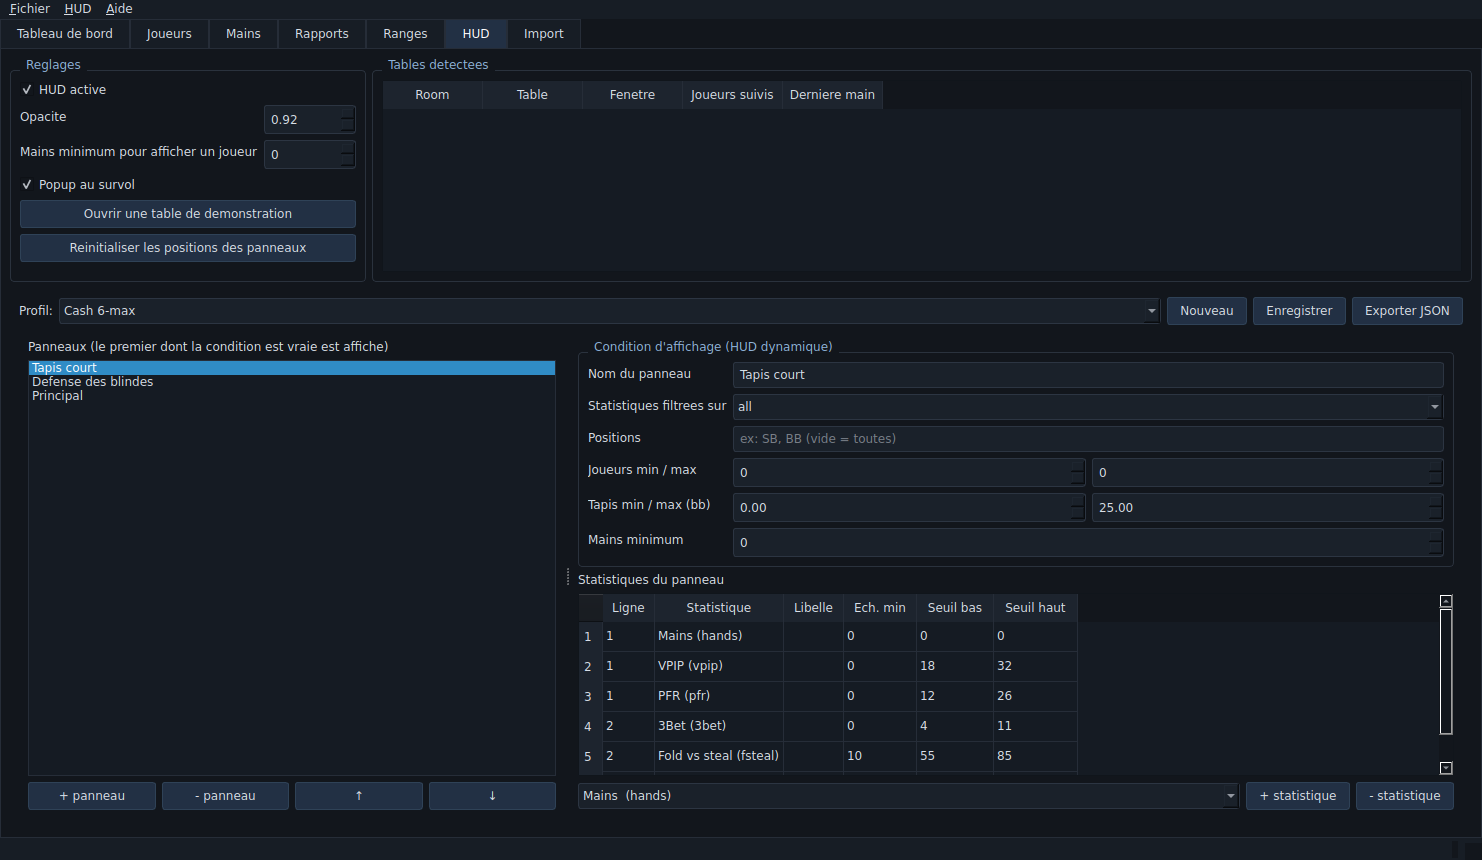
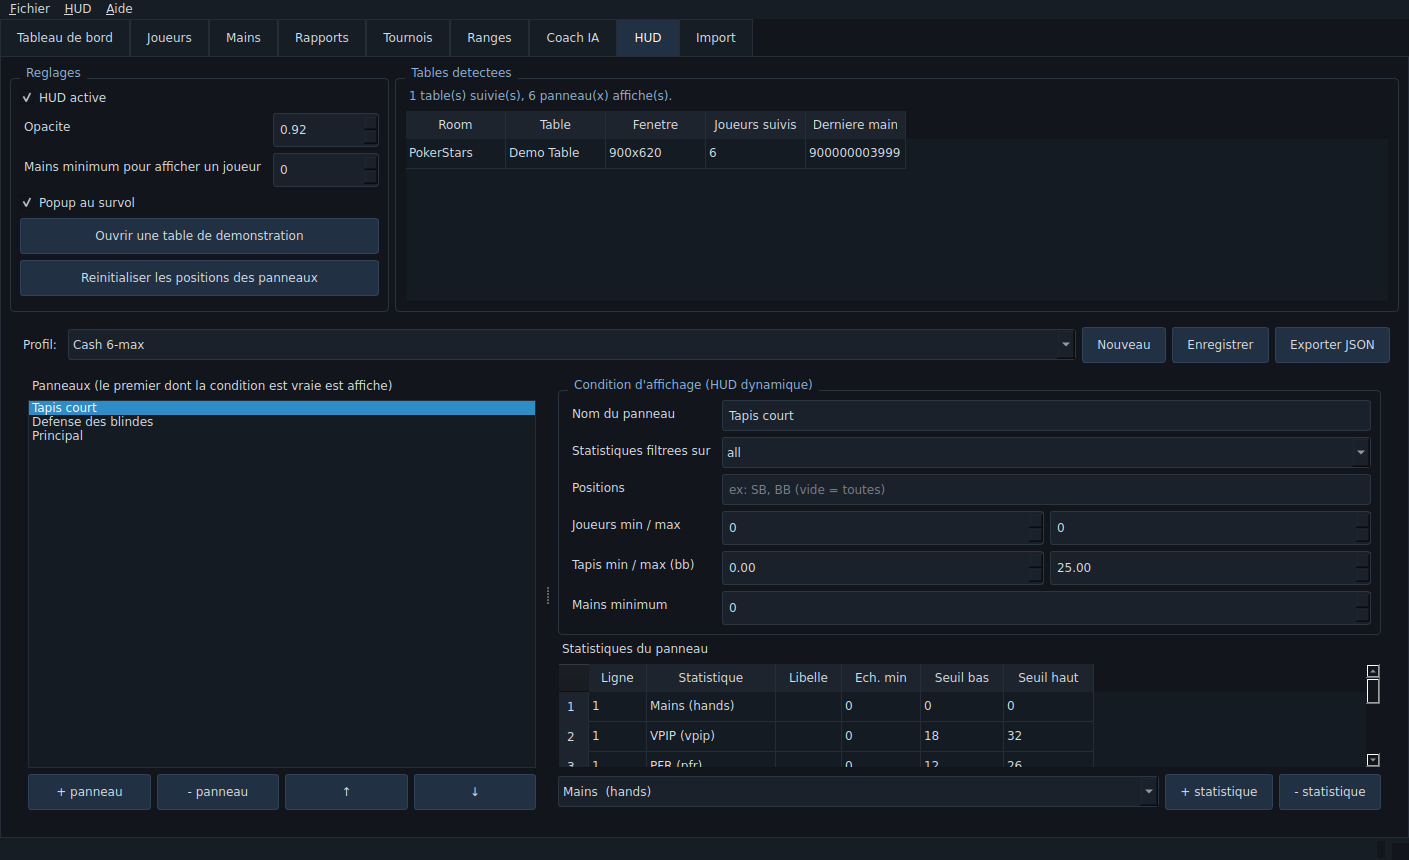
Guide du HUD, documentation et captures a jour
- docs/guide_hud.md: mise en route pas a pas, tableau de diagnostic et
  reglages, en reponse aux panneaux qui ne s'affichaient pas
- README: archivage, gains ajustes a l'equite, tournois, bankroll, coach IA,
  limites mises a jour et nouvelles captures
- statistique « Chance (bb) » calculee comme un ecart (expressions
  algebriques dans le catalogue de statistiques)
- axe des courbes libelle selon la serie (mains, tournois, mouvements)

Claude-Session: https://claude.ai/code/session_01Qmrfar1MuGqQSokXkrKt6E

diff --git a/pokertracker/core/stats/definitions.py b/pokertracker/core/stats/definitions.py
@@ -6,6 +6,7 @@ separes par '+' pour construire des statistiques composites.
 """
 from __future__ import annotations
 
+import re
 from dataclasses import dataclass, field
 from typing import Callable, Iterable, Optional
 
@@ -62,12 +63,20 @@ class StatDef:
 
 
 def sum_expr(agg: dict, expr: str) -> float:
+    """Somme algebrique de compteurs: 'a+b', 'bb_net-ev_bb'..."""
     total = 0.0
-    for part in expr.split("+"):
-        part = part.strip()
-        if not part:
+    sign = 1.0
+    for token in re.split(r"([+-])", expr):
+        token = token.strip()
+        if not token:
             continue
-        total += float(agg.get(part, 0) or 0)
+        if token == "+":
+            sign = 1.0
+        elif token == "-":
+            sign = -1.0
+        else:
+            total += sign * float(agg.get(token, 0) or 0)
+            sign = 1.0
     return total
 
 
@@ -100,9 +109,9 @@ STATS: list[StatDef] = [
                         "leur esperance mathematique."),
     StatDef("ev_net", "Gains ajustes", "ev_net", "hands", "General", "money",
             description="Gain net ajuste a l'equite des all-in."),
-    StatDef("luck_bb", "Ecart chance (bb)", "bb_net", "hands", "General", "money", 1,
-            description="Reste informatif: comparer 'Gains' et 'Gains ajustes' donne la "
-                        "chance sur la periode."),
+    StatDef("luck_bb", "Chance (bb)", "bb_net-ev_bb", "hands", "General", "money", 1,
+            description="Ecart entre gains reels et gains ajustes a l'equite, en grosses "
+                        "blindes: positif, les all-in ont ete favorables; negatif, defavorables."),
     StatDef("allin_ev_hands", "Mains all-in evaluees", "allin_ev_hands", "hands", "General",
             "int", description="Nombre de mains dont le resultat a ete ajuste a l'equite."),
     # ------------------------------------------------------------- preflop

diff --git a/pokertracker/ui/widgets.py b/pokertracker/ui/widgets.py
@@ -32,6 +32,8 @@ class WinningsGraph(QWidget):
         self.currency = "EUR"
         self.show_bb = True
         self.show_ev = True
+        #: nom de l'unite de l'axe horizontal (mains, tournois, mouvements...)
+        self.x_label = "mains"
         self.setMinimumHeight(220)
         self.setSizePolicy(QSizePolicy.Expanding, QSizePolicy.Expanding)
 
@@ -109,9 +111,9 @@ class WinningsGraph(QWidget):
             painter.drawText(QRectF(0, y - 8, 50, 16), Qt.AlignRight | Qt.AlignVCenter,
                              f"{v:,.0f}")
         painter.drawText(QRectF(rect.left(), rect.bottom() + 4, rect.width(), 18),
-                         Qt.AlignLeft, "1 main")
+                         Qt.AlignLeft, f"1 {self.x_label[:-1] if self.x_label.endswith('s') else self.x_label}")
         painter.drawText(QRectF(rect.left(), rect.bottom() + 4, rect.width(), 18),
-                         Qt.AlignRight, f"{n} mains")
+                         Qt.AlignRight, f"{n} {self.x_label}")
 
         # legende
         painter.setPen(QPen(color, 2))

diff --git a/pokertracker/ui/tournaments_tab.py b/pokertracker/ui/tournaments_tab.py
@@ -157,8 +157,10 @@ class TournamentsTab(QWidget):
 
         hero_id = self.hero_box.currentData()
         if self.curve_box.currentIndex() == 0:
+            self.graph.x_label = "tournois"
             self.graph.set_curve(self.db.tournament_curve(flt), currency)
         else:
+            self.graph.x_label = "mouvements"
             self.graph.set_curve(self.db.bankroll_timeline(hero_id), currency)
 
         rows = self.db.tournaments(flt)

diff --git a/README.md b/README.md
@@ -20,10 +20,15 @@ d'ou l'echantillon reduit (666 mains contre 4000).*
 | Domaine | Fonctionnalites |
 |---|---|
 | **Import** | Detection automatique des dossiers d'historiques, import initial massif, **import incremental temps reel** pendant la session (une main a peine ecrite par la room est lue en moins d'une seconde), gestion des mains encore en cours d'ecriture, dedoublonnage. |
+| **Archivage** | Copie de chaque main importee dans `%APPDATA%\PokerTracker\archive`, rangee par room et par mois. Les rooms purgent leurs dossiers au bout de quelques mois: l'archive permet de tout reimporter, y compris apres reconstruction de la base. |
 | **Rooms** | PokerStars (cash, Zoom, MTT/SNG), Winamax (cash, Expresso, MTT), GGPoker/GGNetwork, PartyPoker. Detection du format faite sur le contenu du fichier, pas sur son nom. |
-| **Statistiques** | 122 compteurs extraits par main, **55 statistiques** derivees (VPIP, PFR, RFI, 3Bet/4Bet/5Bet, Cold 4Bet, Fold to 3Bet, Squeeze, Steal, Fold vs steal, Resteal, Limp, Iso, C-Bet / Delayed C-Bet / Donk / Probe / Check-raise par street, Fold vs mise, AF, AFq, WWSF, WTSD, W$SD, bb/100...). Voir [docs/statistiques.md](docs/statistiques.md). |
+| **Statistiques** | 125 compteurs extraits par main, **59 statistiques** derivees (VPIP, PFR, RFI, 3Bet/4Bet/5Bet, Cold 4Bet, Fold to 3Bet, Squeeze, Steal, Fold vs steal, Resteal, Limp, Iso, C-Bet / Delayed C-Bet / Donk / Probe / Check-raise par street, Fold vs mise, AF, AFq, WWSF, WTSD, W$SD, bb/100...). Voir [docs/statistiques.md](docs/statistiques.md). |
 | **HUD** | Panneaux translucides toujours au premier plan, poses sur chaque siege, suivi des fenetres de table, deplacement a la souris memorise, popup detaille au survol ou au clic droit, note de joueur, couleurs conditionnelles, filtre par echantillon minimum. |
 | **HUD dynamique** | Plusieurs panneaux par profil, chacun avec sa **condition d'affichage** (position occupee a la main suivante, nombre de joueurs, profondeur de tapis en bb, nombre de mains, format de jeu). Le premier panneau dont la condition est vraie s'affiche : le HUD change tout seul selon la situation. Un panneau peut aussi afficher des stats **filtrees sur la position** du joueur. |
+| **Gains ajustes (all-in EV)** | Les mains dont le tapis part avant la riviere sont rejouees mathematiquement: la part du pot due a l'equite remplace le resultat tire au sort. Seconde courbe sur le graphique, statistiques `bb/100 ajuste` et `Chance (bb)`. Enumeration exacte au flop et au turn, Monte-Carlo preflop. |
+| **Tournois** | Lecture des resumes de tournoi (PokerStars, Winamax): buy-in, primes, entrants, place, gains. Bilan par periode et par format: inscriptions, ITM, **bulles**, ROI, profit, victoires, place moyenne, buy-in moyen. |
+| **Bankroll** | Depots, retraits et ajustements; bankroll = mouvements + resultats cash + resultats tournois, avec courbe d'evolution. |
+| **Coach IA** | Analyse d'un coup precis (street par street, avec equite a chaque etape et stats des adversaires) ou des statistiques d'un joueur (fuites principales et ajustements). Reponse en direct, contexte affiche avant tout envoi. Necessite une cle d'API Anthropic. |
 | **Replayer** | Rejeu action par action, table dessinee, mises, tapis, board, lecture automatique, **calcul d'equite** a l'etape courante (Monte-Carlo). |
 | **Rapports** | Statistiques croisees par position, limite, room, format, table, nombre de joueurs ; graphique de gains cumules (argent ou bb) ; decoupage automatique en sessions. |
 | **Joueurs** | Recherche, tableau comparatif, statistiques par position, notes, etiquettes et couleurs reprises dans le HUD. |
@@ -35,9 +40,11 @@ d'ou l'echantillon reduit (666 mains contre 4000).*
 | | |
 |---|---|
 | ![Tableau de bord](docs/images/tableau_de_bord.png) | ![Rapports](docs/images/rapports.png) |
-| Tableau de bord : courbe de gains, sessions, statistiques globales | Rapports : statistiques croisees par position |
+| Tableau de bord : gains reels et gains ajustes a l'equite | Rapports : statistiques croisees par position |
 | ![Replayer](docs/images/mains_replayer.png) | ![Editeur de HUD](docs/images/editeur_hud.png) |
 | Liste des mains et replayer avec calcul d'equite | Editeur de profil HUD et conditions dynamiques |
+| ![Tournois](docs/images/tournois.png) | ![Coach IA](docs/images/coach_ia.png) |
+| Tournois et bankroll: ROI, ITM, bulles, courbe | Coach IA: contexte envoye et analyse |
 
 ---
 
@@ -65,6 +72,17 @@ python run.py
 ```
 
 Python 3.10 ou plus recent est requis (teste avec 3.11).
+
+L'onglet Coach IA a besoin d'une dependance supplementaire et d'une cle
+d'API Anthropic:
+
+```powershell
+pip install anthropic
+setx ANTHROPIC_API_KEY "votre-cle"    # ou saisie directement dans l'onglet
+```
+
+Le reste du logiciel fonctionne sans, et **aucune donnee n'est envoyee tant
+qu'une analyse n'est pas lancee**.
 
 ---
 
@@ -97,6 +115,20 @@ python run.py --import "D:\HandHistory"
 python run.py --no-hud          # demarrer sans HUD
 python run.py --db D:\poker.db  # base a un autre emplacement
 ```
+
+---
+
+## Le HUD ne s'affiche pas ?
+
+Trois conditions doivent etre reunies: des **mains en base**, une **table
+detectee** (celle de votre client ou la table de demonstration) et la case
+**« HUD active »** cochee. L'onglet HUD affiche en permanence une ligne de
+diagnostic qui dit laquelle manque, et le **[guide complet du HUD](docs/guide_hud.md)**
+detaille chaque cas (table non reconnue, client lance en administrateur,
+plein ecran, panneaux hors ecran...).
+
+Le chemin le plus court pour un premier essai: onglet Import → importer,
+puis onglet HUD → « HUD active » → « Ouvrir une table de demonstration ».
 
 ---
 
@@ -203,12 +235,14 @@ Les rapports filtres, eux, interrogent le detail main par main.
 python -m pytest
 ```
 
-81 tests couvrent les parsers (dont les montants localises, les antes, les
+111 tests couvrent les parsers (dont les montants localises, les antes, les
 mains tronquees), le moteur de statistiques (3bet, squeeze, vol de blindes,
 c-bet, check-raise, probe, abattage), la base et ses filtres, l'import
 incremental, l'evaluateur et les equites de reference, les profils HUD et
-l'interface (en mode hors ecran), ainsi que la coherence entre les cumuls
-precalcules et le recalcul complet.
+l'interface (en mode hors ecran), la coherence entre les cumuls precalcules
+et le recalcul complet, les gains ajustes a l'equite (valeurs exactes et
+conservation de l'argent), l'archivage, les resumes de tournoi et le coach
+IA (avec un client simule, sans appel reseau).
 
 ---
 
@@ -225,6 +259,13 @@ precalcules et le recalcul complet.
   levent entre deux mains sont pris en compte a la main suivante.
 - Pas d'import des bases d'autres trackers (Hand2Note, PokerTracker 4,
   Holdem Manager) ni de base de joueurs partagee en ligne.
+- Les gains des tournois viennent des fichiers de resume: sans eux, les
+  mains de tournoi sont bien importees mais le bilan financier reste vide.
+  Les rooms n'indiquant pas le nombre de places payees, la **bulle** est
+  estimee a partir de la part du champ payee (15 % par defaut).
+- Le coach IA envoie a l'API Anthropic la main ou les statistiques
+  selectionnees (affichees a l'ecran avant l'envoi). Rien d'autre ne sort de
+  la machine, et l'onglet reste inactif sans cle d'API.
 - Omaha est parse et stocke, mais les statistiques sont pensees pour le
   Hold'em ; l'evaluateur d'equite choisit les 5 meilleures cartes sans
   appliquer la contrainte « 2 cartes en main » du PLO.

diff --git a/docs/guide_hud.md b/docs/guide_hud.md
@@ -1,0 +1,133 @@
+# Guide du HUD — de l'installation au premier affichage
+
+## En résumé
+
+Le HUD affiche un panneau de statistiques au-dessus du siège de chaque
+joueur. Pour qu'un panneau apparaisse, **trois conditions** doivent être
+réunies en même temps :
+
+1. des **mains en base** pour les joueurs concernés (le HUD ne montre que ce
+   qui a déjà été joué et importé) ;
+2. une **table détectée** — une fenêtre de table de votre client de poker,
+   ou la table de démonstration fournie ;
+3. la case **« HUD activé »** cochée dans l'onglet HUD.
+
+L'onglet HUD affiche en permanence, sous « Tables détectées », une ligne de
+diagnostic qui dit laquelle de ces trois conditions manque.
+
+---
+
+## Étape 1 — importer des mains
+
+Onglet **Import** :
+
+1. « Détecter automatiquement » (ou « Ajouter un dossier… » si votre room
+   n'est pas trouvée) ;
+2. « Importer maintenant » ;
+3. laisser **« Import automatique en temps réel »** coché — c'est ce qui
+   alimente le HUD pendant que vous jouez.
+
+Vérifiez la barre d'état en bas de la fenêtre : `Mains: 1234 · Joueurs: 87`.
+Si le compteur est à zéro, aucun panneau ne pourra s'afficher.
+
+> Pas encore d'historique sous la main ? Générez des mains de démonstration :
+> `python tools/generate_demo_hands.py --hands 3000 --out demo/HandHistory_demo.txt`
+> puis importez le dossier `demo`.
+
+## Étape 2 — essayer sur la table de démonstration
+
+Onglet **HUD** :
+
+1. cocher **« HUD activé »** ;
+2. cliquer sur **« Ouvrir une table de démonstration »**.
+
+Une fausse table s'ouvre, reprenant le nom et le nombre de joueurs de la
+dernière table réellement jouée, et les panneaux se posent dessus
+immédiatement. C'est le moyen le plus rapide de vérifier que tout
+fonctionne, sans ouvrir de client de poker.
+
+Sur cette table, vous pouvez déjà :
+
+- **déplacer un panneau** à la souris — la position est mémorisée pour cette
+  table et ce siège (bouton « Réinitialiser les positions » pour repartir de
+  zéro) ;
+- **survoler un panneau** pour ouvrir le popup détaillé (préflop, flop,
+  turn, river, global, et un tableau par position) ;
+- **clic droit** sur un panneau : statistiques détaillées, note sur le
+  joueur, masquer le panneau ;
+- **survoler une statistique** pour lire son nom complet.
+
+## Étape 3 — jouer
+
+Ouvrez vos tables dans votre client habituel. Le HUD :
+
+- détecte les fenêtres de table à leur titre, plusieurs tables en parallèle ;
+- suit la fenêtre quand vous la déplacez ou la redimensionnez ;
+- masque les panneaux d'une table réduite dans la barre des tâches ;
+- se met à jour à chaque main importée (donc à la fin de chaque main).
+
+Au démarrage du logiciel, les dernières tables jouées sont restaurées
+automatiquement : le HUD est utilisable dès le lancement, sans attendre la
+fin d'une main.
+
+---
+
+## Si aucun panneau ne s'affiche
+
+| Message de diagnostic (onglet HUD) | Ce qu'il faut faire |
+|---|---|
+| « HUD désactivé » | Cocher « HUD activé ». |
+| « Aucune main en base » | Importer vos historiques (onglet Import). |
+| « Aucune table de poker détectée » | Ouvrir une table, ou cliquer sur « Ouvrir une table de démonstration ». Si votre table est ouverte mais non détectée, voir ci-dessous. |
+| « Table détectée mais aucun joueur reconnu » | Aucune main n'a encore été jouée à cette table, ou le réglage « Mains minimum » est trop élevé (mettez-le à 0). |
+| « N table(s) suivie(s), M panneau(x) affiché(s) » | Tout va bien : les panneaux sont là. S'ils sont hors écran, cliquez sur « Réinitialiser les positions des panneaux ». |
+
+Autres points à vérifier :
+
+- **La room écrit-elle ses historiques ?** Dans les options du client, la
+  sauvegarde des historiques de mains doit être activée, sinon aucun fichier
+  n'est créé et le HUD n'a rien à afficher.
+- **Table non détectée** : la reconnaissance se fait sur le titre de la
+  fenêtre. Les motifs sont dans `pokertracker/hud/table_tracker.py`
+  (`ROOM_PATTERNS`) ; en ajouter un suffit pour prendre en charge un client
+  dont les titres sortent de l'ordinaire.
+- **Client lancé en administrateur** : si votre client de poker tourne en
+  administrateur et pas PokerTracker, Windows empêche la superposition.
+  Lancez les deux de la même façon.
+- **Mode plein écran** : certaines tables en plein écran passent devant les
+  fenêtres superposées. Utilisez le mode fenêtré.
+
+---
+
+## Régler ce que le HUD affiche
+
+Tout se passe dans la moitié basse de l'onglet HUD.
+
+- **Profil** : `Cash 6-max`, `Heads-up` ou `Tournois` sont fournis ;
+  « Nouveau » crée le vôtre, « Enregistrer » le sauvegarde dans la base.
+- **Panneaux** : un profil en contient plusieurs, dans l'ordre. Pour chaque
+  joueur, **le premier panneau dont la condition est vraie est affiché**.
+  C'est le HUD dynamique.
+- **Condition d'affichage** : position occupée à la main suivante, nombre de
+  joueurs, profondeur de tapis en bb, nombre de mains minimum.
+- **Statistiques filtrées sur** : `all` (toutes les mains) ou `position` —
+  dans ce cas, les statistiques ne comptent que les mains jouées à la
+  position actuelle du joueur (l'échantillon affiché est donc plus petit :
+  c'est normal).
+- **Statistiques du panneau** : ligne d'affichage, libellé personnalisé,
+  échantillon minimum (en dessous, la valeur est masquée) et seuils de
+  coloration bas/haut.
+
+Exemple fourni par défaut (profil `Cash 6-max`) :
+
+| Panneau | Condition | Effet |
+|---|---|---|
+| Tapis court | tapis ≤ 25 bb | panneau resserré, orienté vol/défense |
+| Défense des blindes | position SB ou BB | statistiques **filtrées sur la position** |
+| Principal | toujours vrai | affichage standard |
+
+## Réglages généraux
+
+- **Opacité** : transparence des panneaux (0,2 à 1).
+- **Mains minimum pour afficher un joueur** : masque les inconnus.
+- **Popup au survol** : sinon, le popup s'ouvre au clic droit.

diff --git a/docs/statistiques.md b/docs/statistiques.md
@@ -14,6 +14,10 @@ l'interface est toujours celui du denominateur.
 | `bb100` | bb/100 | `bb_net` | `hands` | Gain moyen en grosses blindes pour 100 mains. |
 | `net` | Gains | `amount_net` | `hands` | Gain net cumule dans la devise de la table. |
 | `wr_hands` | % mains gagnees | `hands_won` | `hands` | Pourcentage de mains remportees. |
+| `ev_bb100` | bb/100 ajuste | `ev_bb` | `hands` | Gain en bb/100 ajuste a l'equite: les all-in sont remplaces par leur esperance mathematique. |
+| `ev_net` | Gains ajustes | `ev_net` | `hands` | Gain net ajuste a l'equite des all-in. |
+| `luck_bb` | Chance (bb) | `bb_net-ev_bb` | `hands` | Ecart entre gains reels et gains ajustes a l'equite, en grosses blindes: positif, les all-in ont ete favorables; negatif, defavorables. |
+| `allin_ev_hands` | Mains all-in evaluees | `allin_ev_hands` | `hands` | Nombre de mains dont le resultat a ete ajuste a l'equite. |
 
 ## Preflop
 
